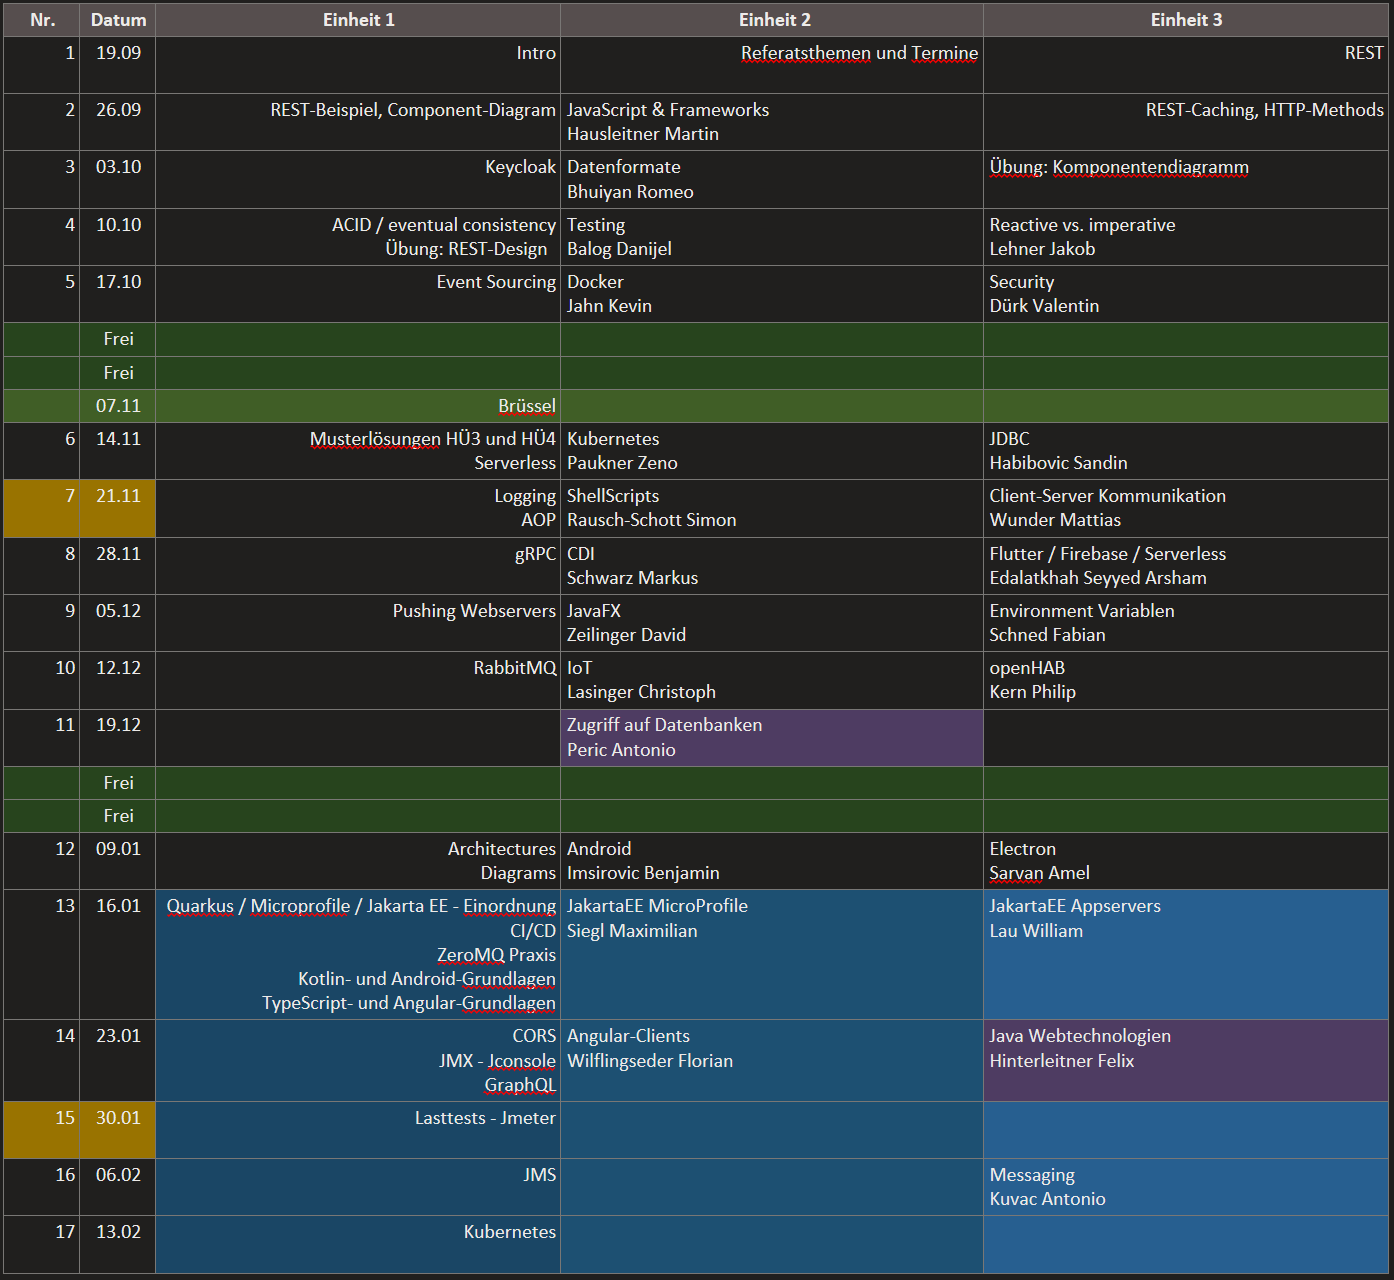
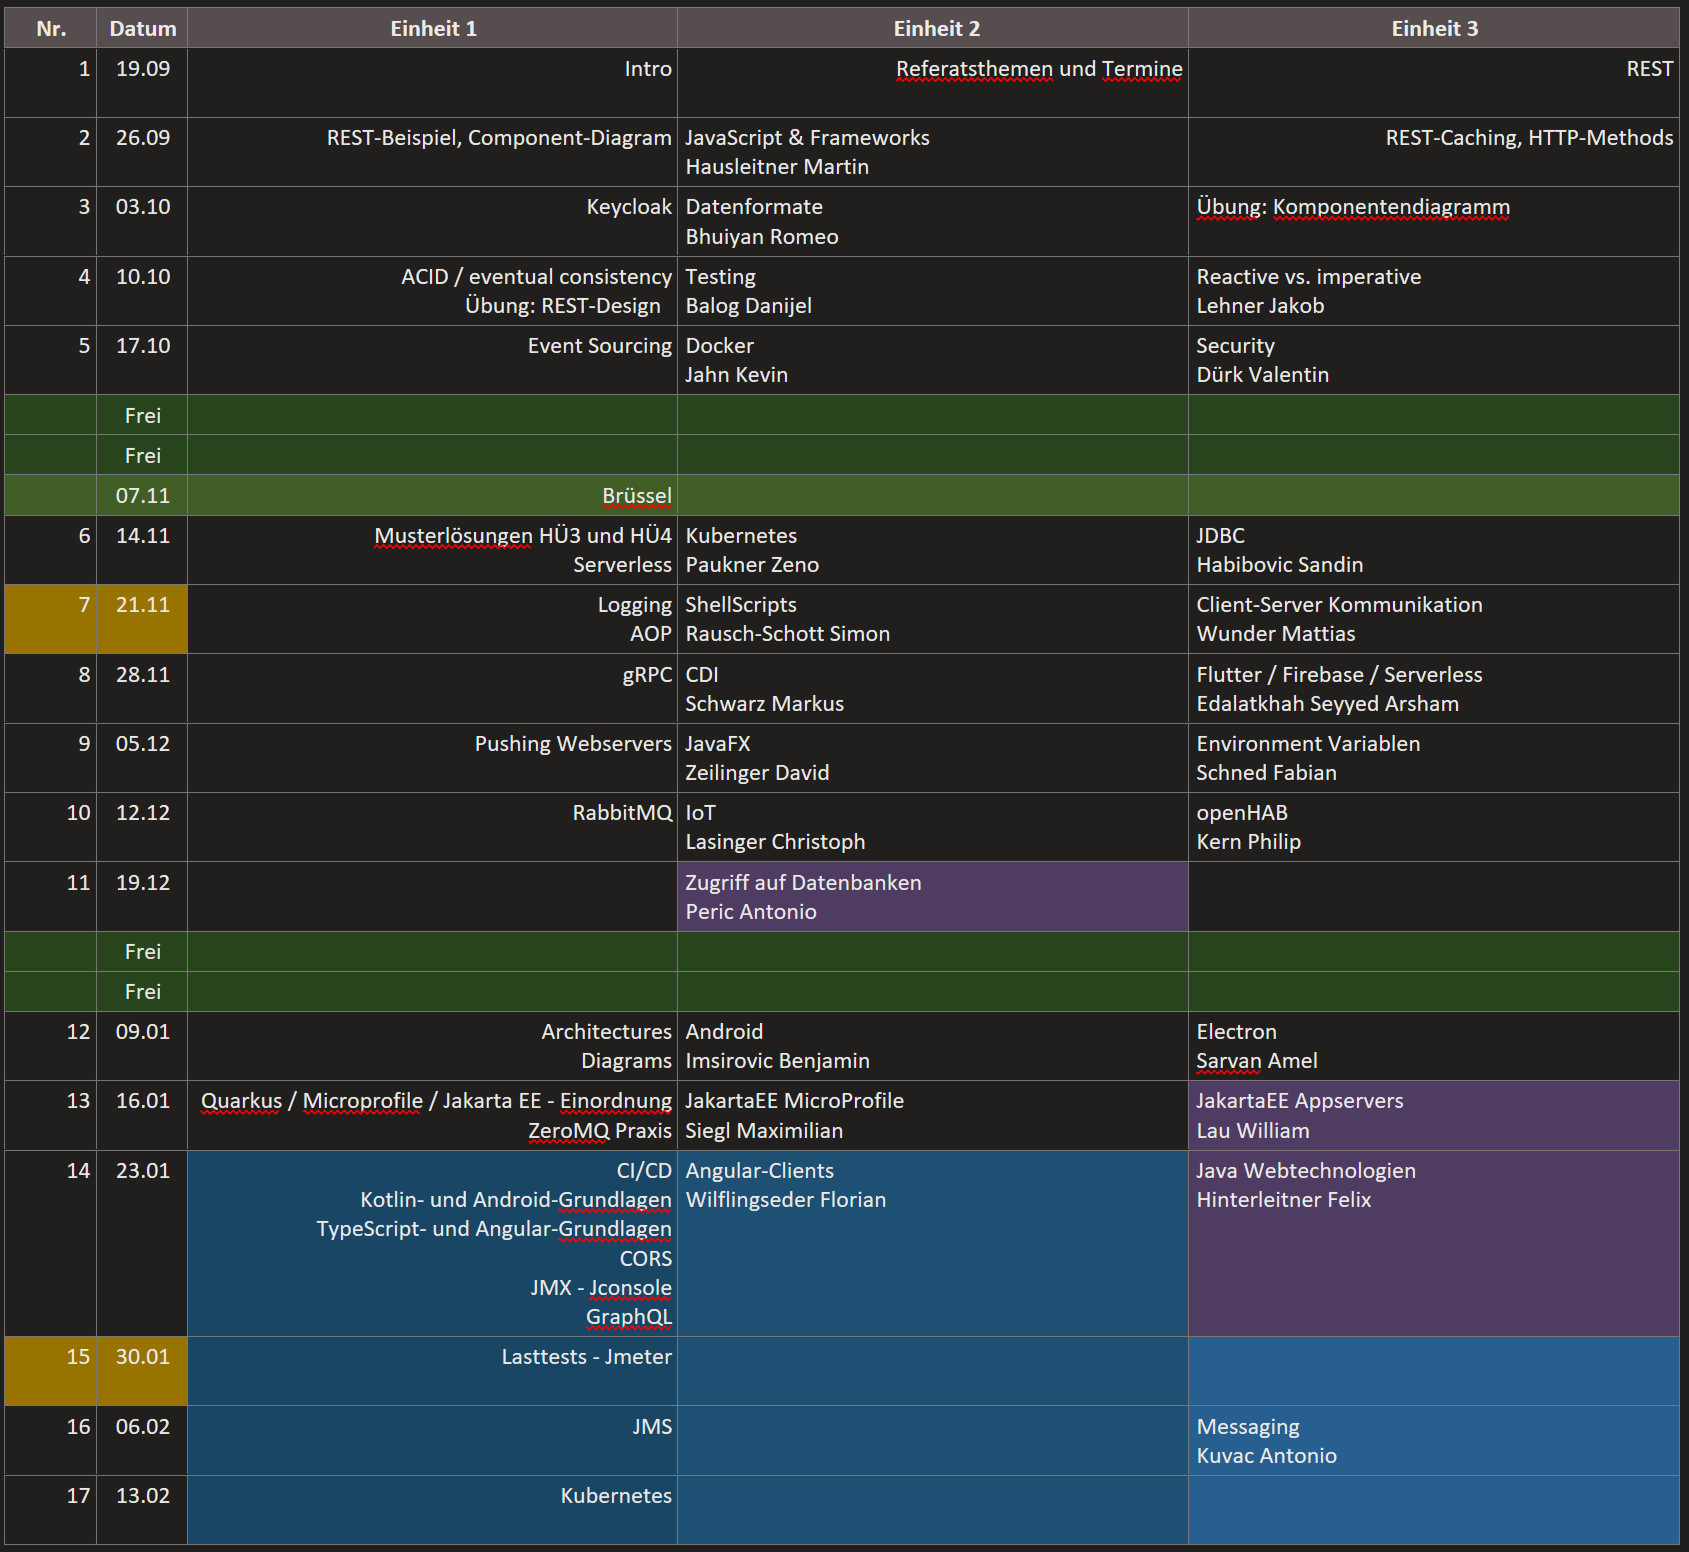
update

diff --git a/5CHIF-NVSV.md b/5CHIF-NVSV.md
@@ -18,12 +18,24 @@ https://classroom.github.com/a/QTfc9_Zk
 
 
 
-## 13. Einheit 2023-01-16
+## 14. Einheit 2023-01-23
 
-* [JavaEE-Spring-Microservices-Quarkus](https://github.com/UnterrainerInformatik/htl/blob/master/presentations/ee-micro-quark.pdf)
+* Mitarbeitsüberprüfung
+* Build-Pipeline von Zero-MQ Beispiel herzeigen und kurz durchgehen
 * [CI/CD](https://github.com/UnterrainerInformatik/htl/blob/master/presentations/ci-cd.pdf)
 * [Kotlin-Android-JetpackCompose-Basics](https://github.com/UnterrainerInformatik/htl/blob/master/presentations/kotlin-android-basics.pdf)
 * [Typescript-Angular-Basics](https://github.com/UnterrainerInformatik/htl/blob/master/presentations/typescript-angluar-basics.pdf)
+
+### Hausübung
+
+Nichts
+
+
+
+## 13. Einheit 2023-01-16
+
+* Mitarbeitsüberprüfung
+* [JavaEE-Spring-Microservices-Quarkus](https://github.com/UnterrainerInformatik/htl/blob/master/presentations/ee-micro-quark.pdf)
 * ZeroMQ Praxis-Beispiel
   * https://github.com/UnterrainerInformatik/htl-zeromq
   * unterrainer.info:5556,5557

diff --git a/5BHIF-NVSV.md b/5BHIF-NVSV.md
@@ -18,12 +18,23 @@ https://classroom.github.com/a/0pIFwT2Q
 
 
 
-## 13. Einheit 2023-01-16
+## 14. Einheit 2023-01-23
 
-* [JavaEE-Spring-Microservices-Quarkus](https://github.com/UnterrainerInformatik/htl/blob/master/presentations/ee-micro-quark.pdf)
+* Mitarbeitsüberprüfung
 * [CI/CD](https://github.com/UnterrainerInformatik/htl/blob/master/presentations/ci-cd.pdf)
 * [Kotlin-Android-JetpackCompose-Basics](https://github.com/UnterrainerInformatik/htl/blob/master/presentations/kotlin-android-basics.pdf)
 * [Typescript-Angular-Basics](https://github.com/UnterrainerInformatik/htl/blob/master/presentations/typescript-angluar-basics.pdf)
+
+### Hausübung
+
+Nichts
+
+
+
+## 13. Einheit 2023-01-16
+
+* Mitarbeitsüberprüfung
+* [JavaEE-Spring-Microservices-Quarkus](https://github.com/UnterrainerInformatik/htl/blob/master/presentations/ee-micro-quark.pdf)
 * ZeroMQ Praxis-Beispiel
   * https://github.com/UnterrainerInformatik/htl-zeromq
   * unterrainer.info:5556,5557
